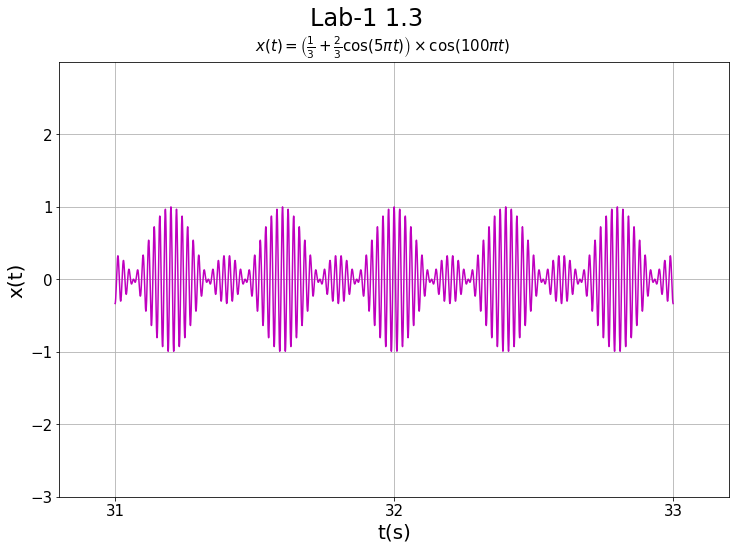
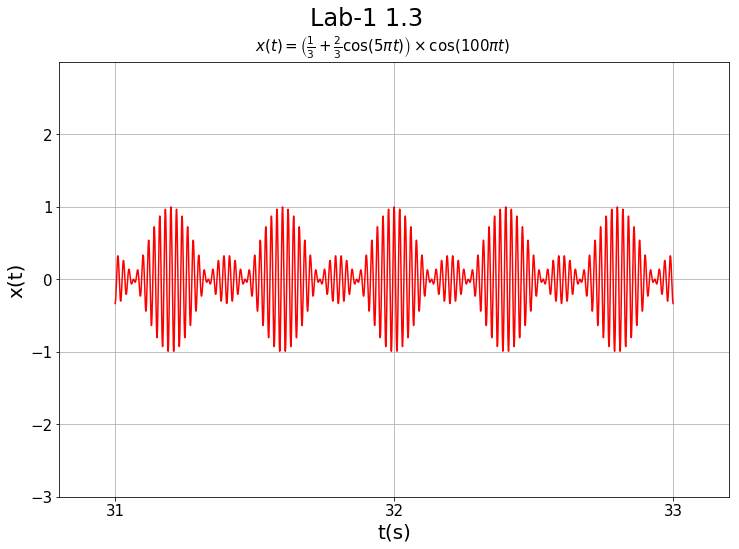
ex1_completed
Missing correct figure size and more detailed axis perhaps-corrected
wave function formula

Changed region(s): [[0.1556, 0.3716, 0.9337, 0.6503]]

diff --git a/Labs/Lab_01/e_01.py b/Labs/Lab_01/e_01.py
@@ -6,57 +6,223 @@ import matplotlib.pyplot as plt
 
 
 def main():
+    item_01()
+    item_02()
+    item_03()
+    item_04()
     item_05()
 
-
 def item_01():
-    interval = [44, 50]
+    #array that contains "area" of the graphic we want to plot
+    interval = [44,50]
 
-    t = np.linspace(interval[0], interval[1] + 1, 1e04)
+    #Creates an array of evenly spaced numbers in designated range
+    t = np.linspace(interval[0], interval[1], 1e04)
+    
+    #wave function
     x = 2 * np.cos(20 * np.pi * t + np.pi / 3) + np.sin(22 * np.pi * t - np.pi / 4)
-
-    draw_graph(t, x)
-
+    
+    #closes previous plots
+    plt.close('all')
+    
+    #creates figure of the graphic with the determined size and color
+    plt.figure(facecolor='y',figsize=(12,8))
+    
+    #draws graphic
+    draw_graph(t,x)
+    
+    #selects the axis to be displayed in the graphic
+    plt.axis([interval[0]-0.5,interval[1]+0.5,-3.5,3.5])
+    
+    #determines the ticks axis range and size
+    plt.xticks(np.arange(interval[0],interval[1]+1),fontsize=15)
+    plt.yticks(np.arange(-3.5,3.6),fontsize=15)
+    
+    #Formats the graphic with axis names, text labels, and with various informations of the wave being analyzed
+    plt.xlabel('t(s)',fontsize=20)
+    plt.ylabel('x(t)',fontsize=20)   
+    plt.text(46.5,3.50,'Lab-1 1.1',fontsize=24) 
+    plt.text(46,3.15,r'$x(t)=2\cos \left(20 \pi t + \frac{\pi}{3} \right) +  \sin \left(22\pi t- \frac{\pi}{4}\right)$',fontsize=15)
+    
+    #Enables the graphic grid display
+    plt.grid()
+    
+    #Saves graphic image
+    plt.savefig("lab1_1.1.png",bbox_inches='tight',transparent=False)
+    
+    #displays created Graphic
+    plt.show()
+    
 
 def item_02():
+    #array that contains "area" of the graphic we want to plot
     interval = [121, 123]
-
-    t = np.linspace(interval[0], interval[1] + 1, 1e04)
+    
+    #Creates an array of evenly spaced numbers in designated range
+    t = np.linspace(interval[0], interval[1], 1e03)
+    
+     #wave function
     x = np.cos(540 * np.pi * t + np.pi / 2) + np.cos(545 * np.pi * t + np.pi / 2)
+    
+    #closes previous plots
+    plt.close('all')
+    
+    #creates figure of the graphic with the determined size and color
+    plt.figure(facecolor='y',figsize=(12,8))
+    
+    #draws graphic
+    draw_graph(t,x,"m")
+    
+    #selects the axis to be displayed in the graphic
+    plt.axis([interval[0]-0.2,interval[1]+0.2,-3,3])
+    
+    #determines the ticks axis range and size
+    plt.xticks(np.arange(interval[0],interval[1]+1),fontsize=15)
+    plt.yticks(np.arange(-3,4),fontsize=15)
+    
+    #Formats the graphic with axis names, text labels, and with various informations of the wave being analyzed
+    plt.xlabel('t(s)',fontsize=20)
+    plt.ylabel('x(t)',fontsize=20)
+    plt.text(121.7,3.50,'Lab-1 1.2',fontsize=24)
+    plt.text(121.5,3.15,r'$x(t)=\cos \left(540 \pi t + \frac{\pi}{2} \right) +  \cos \left(545\pi t- \frac{\pi}{2}\right)$',fontsize=15)
+    
+    #Enables the graphic grid display
+    plt.grid()
+    
+    #Saves graphic image
+    plt.savefig("lab1_1.2.png",bbox_inches='tight',transparent=False)
 
-    draw_graph(t, x)
+    #displays created Graphic
+    plt.show()
 
 
 def item_03():
+    #array that contains "area" of the graphic we want to plot
     interval = [31, 33]
-
-    t = np.linspace(interval[0], interval[1] + 1, 1e04)
+    
+    #Creates an array of evenly spaced numbers in designated range
+    t = np.linspace(interval[0], interval[1], 1e04)
+    
+    #wave function
     x = (1 / 3 + 2 / 3 * np.cos(5 * np.pi * t)) * np.cos(100 * np.pi * t)
-
-    draw_graph(t, x)
-
+    
+    #closes previous plots
+    plt.close('all')
+    
+    #creates figure of the graphic with the determined size and color
+    plt.figure(facecolor='y',figsize=(12,8))
+    
+    #draws graphic
+    draw_graph(t,x,"r")
+    
+    #selects the axis to be displayed in the graphic
+    plt.axis([interval[0]-0.2,interval[1]+0.2,-3,3])
+    
+    #determines the ticks axis range and size
+    plt.xticks(np.arange(interval[0],interval[1]+1),fontsize=15)
+    plt.yticks(np.arange(-3,3),fontsize=15)
+    
+    #Formats the graphic with axis names, text labels, and with various informations of the wave being analyzed
+    plt.xlabel('t(s)',fontsize=20)
+    plt.ylabel('x(t)',fontsize=20)
+    plt.text(31.7,3.50,'Lab-1 1.3',fontsize=24)
+    plt.text(31.5,3.15,r'$x(t)=\left(\frac{1}{3} +\frac{2}{3}\cos \left(5 \pi t \right)\right) \times  \cos \left(100\pi t\right)$',fontsize=15)
+    
+    #Enables the graphic grid display
+    plt.grid()
+    
+    #Saves graphic image
+    plt.savefig("lab1_1.3.png",bbox_inches='tight',transparent=False)
+    
+    #displays created Graphic
+    plt.show()
 
 def item_04():
+    #array that contains "area" of the graphic we want to plot
     interval = [11.2, 11.3]
 
-    t = np.linspace(interval[0], interval[1] + 1, 1e04)
-    x = np.cos(2 * np.pi * (440 + np.cos(20 * np.pi * t)))
+    #Creates an array of evenly spaced numbers in designated range
+    t = np.linspace(interval[0], interval[1], 1e04)
+    
+    #wave function
+    x = np.cos(2 * np.pi *t* (440 + np.cos(20 * np.pi * t)))
+    
+     #closes previous plots
+    plt.close('all')
+    
+    #creates figure of the graphic with the determined size and color
+    plt.figure(facecolor='y',figsize=(12,8))
 
+    #draws graphic
     draw_graph(t, x)
+
+    #selects the axis to be displayed in the graphic
+    plt.axis([interval[0]-0.005,interval[1]+0.005,-2,2])
+    
+    #Formats the graphic with axis names, text labels, and with various informations of the wave being analyzed
+    plt.xlabel('t(s)',fontsize=20)
+    plt.ylabel('x(t)',fontsize=20)
+    plt.text(11.235,3.50,'Lab-1 1.4',fontsize=24)
+    plt.text(11.23,3.15,r'$x(t)=\cos \left(2 \pi t  \left( 440 + \cos \left(20 \pi t \right) \right) \right)$',fontsize=15)
+    
+    #Enables the graphic grid display
+    plt.grid()
+    
+    #Saves graphic image
+    plt.savefig("lab1_1.4.png",bbox_inches='tight',transparent=False)
+    
+    #displays created Graphic
+    plt.show()
 
 
 def item_05():
+    #array that contains "area" of the graphic we want to plot
     interval = [-4, 4]
 
-    t = np.linspace(interval[0], interval[1] + 1, 1e04)
-    x = np.sinc(3 * np.pi * t)
+    #Creates an array of evenly spaced numbers in designated range
+    t = np.linspace(interval[0], interval[1], 1e04)
+    
+    #wave function
+    #x = np.sinc(3 * np.pi * t)
+    #x=np.sin(3*np.pi*t)/(3*np.pi*t)
+    x= np.sinc(3*t)
+    
+    #closes previous plots
+    plt.close('all')
+    
+    #creates figure of the graphic with the determined size and color
+    plt.figure(facecolor='y',figsize=(12,4))
 
+    #draws graphic
     draw_graph(t, x)
-
-
-def draw_graph(t, x):
-    plt.plot(t, x)
+    
+    #selects the axis to be displayed in the graphic
+    plt.axis([interval[0]-0.5,interval[1]+0.5,-0.4,1.1])
+    
+    #Formats the graphic with axis names, text labels, and with various informations of the wave being analyzed
+    plt.xlabel('t(s)',fontsize=20)
+    plt.ylabel('x(t)',fontsize=20)
+    plt.text(-0.5,1.50,'Lab-1 1.5',fontsize=24)
+    plt.text(-0.5,3.,r'$x(t)=\frac{\sin\left(3 \pi t\right)}{3 \pi t}$',fontsize=15)
+    
+    #Enables the graphic grid display
+    plt.grid()
+    
+    #Saves graphic image
+    plt.savefig("lab1_1.5.png",bbox_inches='tight',transparent=False)
+    
+    #displays created Graphic
     plt.show()
+
+def draw_graph(t, x, color=None, lineWidth=None):
+    if color is None and lineWidth is None:
+        plt.plot(t,x)
+    elif color is None and lineWidth is not None:
+        plt.plot(t,x,linewidth=lineWidth)
+    elif color is not None and lineWidth is None:
+        plt.plot(t,x,color)
+    else:
+        plt.plot(t,x,color,linewidth=lineWidth)
 
 
 if __name__ == '__main__':

diff --git a/Labs/Lab_01/e_02.py b/Labs/Lab_01/e_02.py
@@ -10,22 +10,26 @@ def main():
 
 
 def item_01():
-    interval = [-4.5, 1.5]
-    t = np.linspace(interval[0], interval[1] + 1, 1e04)
+    interval = [-4.5, -1.5]
+    t = np.linspace(interval[0], interval[1], 1e04)
     x = np.zeros(len(t))
 
+    #procura os indices dos t que verificam ambas as condições e nesses sitios o x vai valer 1
     x[(-2 * t - 4 >= 0) & (-t - 4 <= 0)] = 1
 
-    # plt.close()
-    # plt.figure(facecolor='w', figsize=(7, 5))
-    # plt.plot(t, x, 'k', linewidth=1.5)
-    # plt.axis([interval[0], interval[1], -0.1, 1.1]])
-    # plt.xticks(fontsize=18)
-    # plt.yticks(fontsize=18)
-    # plt.xlabel()
-    # plt.ylabel()
-    # plt.title(r'$x(t)=u(-2t-4)-u(-t-4))
+    plt.close()
+    plt.figure(facecolor='w', figsize=(7, 5))
+    plt.plot(t, x, 'k', linewidth=1.5)
+    plt.axis([interval[0], interval[1], -0.1, 1.1])
+    plt.xticks(fontsize=18)
+    plt.yticks(fontsize=18)
+    plt.xlabel('t(s)',fontsize=10)
+    plt.ylabel('x(t)',fontsize=10)
+    plt.text(-3.5,1.2,'Lab-1 1.5',fontsize=24)
+    plt.title(r'$x(t)=u(-2t-4)-u(-t-4)')
     plt.grid()
+    
+    plt.savefig("lab2_1.1.png",bbox_inches='tight',transparent=False)
     plt.show()
     # plt.savefig()
 
